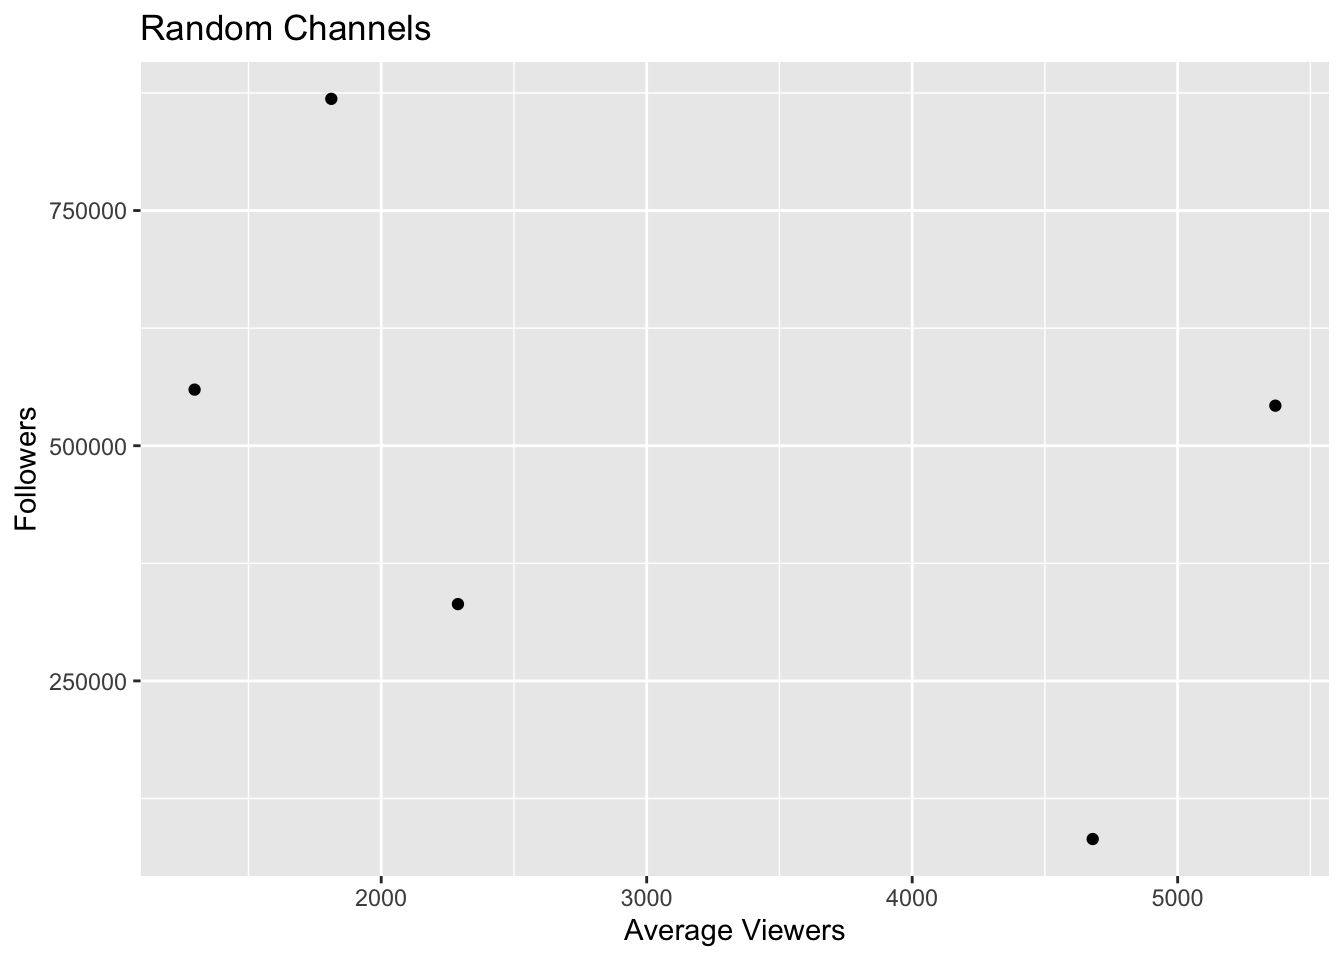
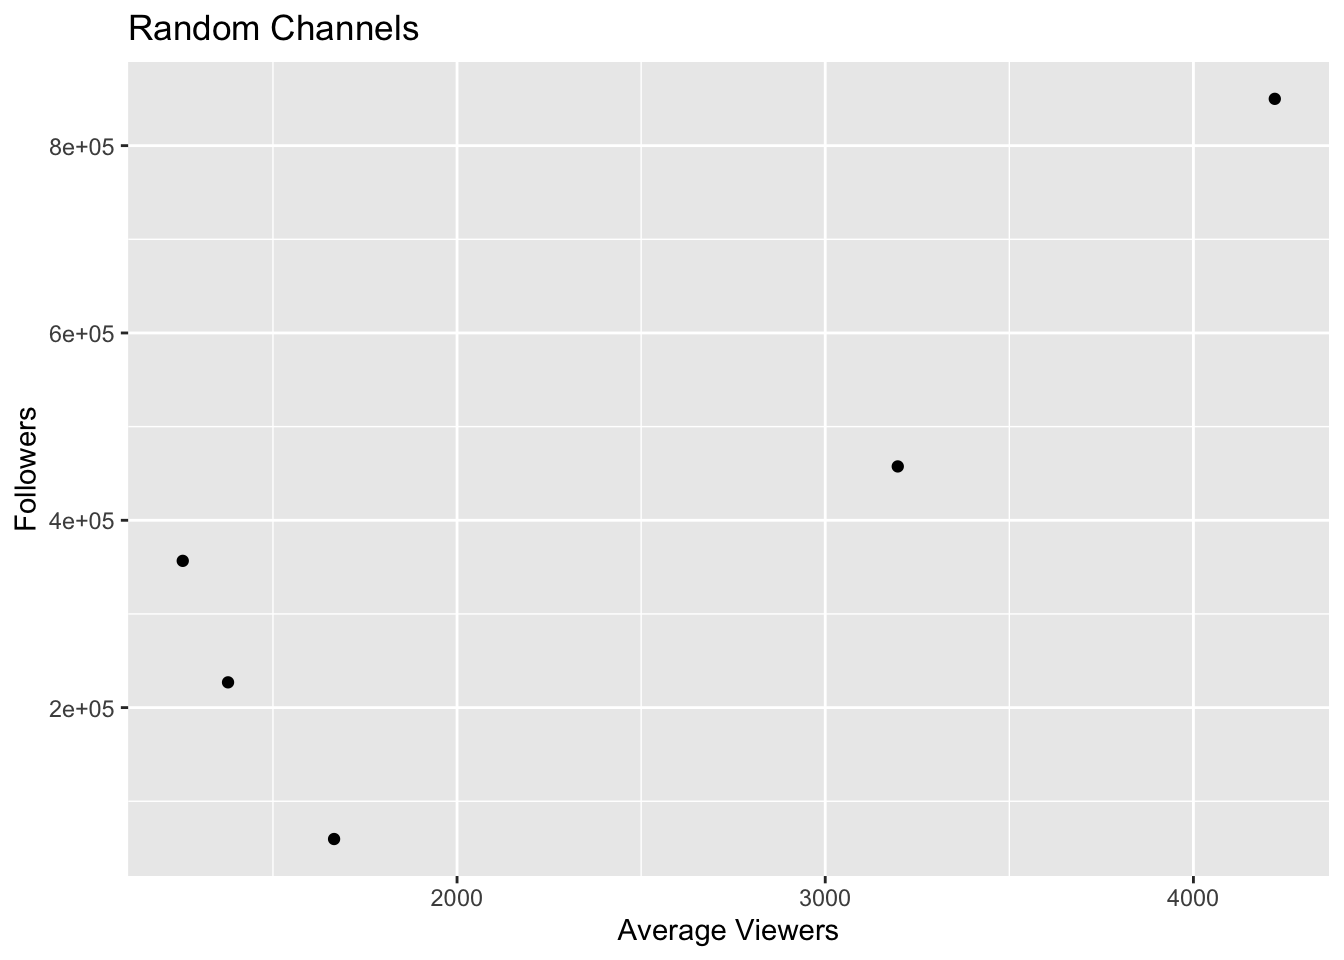
3

diff --git a/MD_HW5.html b/MD_HW5.html
@@ -158,13 +158,13 @@ Attaching package: 'janitor'</code></pre>
 <span id="cb10-3"><a href="#cb10-3" aria-hidden="true" tabindex="-1"></a>  <span class="fu">sample_n</span>(<span class="at">size =</span> <span class="dv">5</span>) </span></code><button title="Copy to Clipboard" class="code-copy-button"><i class="bi"></i></button></pre></div>
 <div class="cell-output cell-output-stdout">
 <pre><code># A tibble: 5 × 3
-  channel          average_viewers followers
-  &lt;chr&gt;                      &lt;dbl&gt;     &lt;dbl&gt;
-1 PaymoneyWubby               5485    302419
-2 TobiasFate                  1233    701822
-3 Philza                      2991    527540
-4 루시아 (lucia94)            1603     82578
-5 ESL_CSGOb                   5114    575769</code></pre>
+  channel            average_viewers followers
+  &lt;chr&gt;                        &lt;dbl&gt;     &lt;dbl&gt;
+1 태준이 (dlxowns45)            2023    346631
+2 AladdinTV                     1416    110211
+3 dinablin                      2413    293748
+4 koil                          2791    299033
+5 Bonjwa                        1802    123954</code></pre>
 </div>
 </div>
 <p>What do you notice?</p>
@@ -184,11 +184,11 @@ dplyr 1.1.0.
 <pre><code># A tibble: 5 × 2
   average_viewers followers
             &lt;dbl&gt;     &lt;dbl&gt;
-1            1233    701822
-2            1985    330772
-3            1569    256448
-4            2647    179420
-5            9235    833047</code></pre>
+1            5195    303671
+2            1400     86561
+3            1169     51589
+4            2391    512592
+5            7522    828896</code></pre>
 </div>
 </div>
 <p>Describe the results in a few words. Does anything capture your attention?</p>
@@ -246,8 +246,10 @@ dplyr 1.1.0.
 <section id="question-2" class="level2">
 <h2 class="anchored" data-anchor-id="question-2">Question 2</h2>
 <div class="cell">
-<div class="sourceCode cell-code" id="cb20"><pre class="sourceCode r code-with-copy"><code class="sourceCode r"><span id="cb20-1"><a href="#cb20-1" aria-hidden="true" tabindex="-1"></a>fit1 <span class="ot">&lt;-</span> <span class="fu">lm</span>(log_viewers <span class="sc">~</span> average_viewers,  <span class="at">data =</span> twitch_data)</span></code><button title="Copy to Clipboard" class="code-copy-button"><i class="bi"></i></button></pre></div>
+<div class="sourceCode cell-code" id="cb20"><pre class="sourceCode r code-with-copy"><code class="sourceCode r"><span id="cb20-1"><a href="#cb20-1" aria-hidden="true" tabindex="-1"></a>fit1 <span class="ot">&lt;-</span> <span class="fu">lm</span>(log_viewers <span class="sc">~</span> log_followers,  <span class="at">data =</span> twitch_data) </span></code><button title="Copy to Clipboard" class="code-copy-button"><i class="bi"></i></button></pre></div>
 </div>
+<p>$$ 1.1^{0.4} = 4.442731 $$</p>
+<p>A 10% increase in followers is associated with a 4.2% increase in the average number of viewers.</p>
 </section>
 <section id="question-3" class="level2">
 <h2 class="anchored" data-anchor-id="question-3">Question 3</h2>
@@ -261,18 +263,33 @@ dplyr 1.1.0.
 <div class="cell-output cell-output-stdout">
 <pre><code>Rows: 1,000
 Columns: 8
-$ log_viewers     &lt;dbl&gt; 4.442731, 4.408410, 4.040444, 3.887280, 4.471321, 4.62…
-$ average_viewers &lt;dbl&gt; 27716, 25610, 10976, 7714, 29602, 42414, 24181, 18985,…
-$ .fitted         &lt;dbl&gt; 4.227815, 4.156428, 3.660378, 3.549806, 4.291745, 4.72…
-$ .resid          &lt;dbl&gt; 0.21491505, 0.25198134, 0.38006578, 0.33747361, 0.1795…
-$ .hat            &lt;dbl&gt; 0.008367809, 0.007076837, 0.001537551, 0.001120491, 0.…
-$ .sigma          &lt;dbl&gt; 0.2790529, 0.2790217, 0.2788766, 0.2789317, 0.2790781,…
-$ .cooksd         &lt;dbl&gt; 0.0025247363, 0.0029276318, 0.0014310517, 0.0008215493…
-$ .std.resid      &lt;dbl&gt; 0.7735572, 0.9063824, 1.3633075, 1.2102753, 0.6467694,…</code></pre>
+$ log_viewers   &lt;dbl&gt; 4.442731, 4.408410, 4.040444, 3.887280, 4.471321, 4.6275…
+$ log_followers &lt;dbl&gt; 6.511388, 6.725108, 6.247393, 6.596030, 6.951284, 6.1940…
+$ .fitted       &lt;dbl&gt; 4.029761, 4.155534, 3.874400, 4.079572, 4.288638, 3.8430…
+$ .resid        &lt;dbl&gt; 0.4129697, 0.2528757, 0.1660436, -0.1922928, 0.1826833, …
+$ .hat          &lt;dbl&gt; 0.006194481, 0.008694557, 0.003782169, 0.007126066, 0.01…
+$ .sigma        &lt;dbl&gt; 0.3085580, 0.3087321, 0.3087919, 0.3087764, 0.3087820, 0…
+$ .cooksd       &lt;dbl&gt; 0.0056128779, 0.0029688873, 0.0005513456, 0.0014026033, …
+$ .std.resid    &lt;dbl&gt; 1.3420109, 0.8227954, 0.5389316, -0.6251793, 0.5953620, …</code></pre>
 </div>
 </div>
-<p>$$ 1.1^{0.4} = 4.442731 $$</p>
-<p>A 10% increase in followers is associated with a 4.2% increase in the average number of viewers.</p>
+<div class="cell">
+<div class="sourceCode cell-code" id="cb23"><pre class="sourceCode r code-with-copy"><code class="sourceCode r"><span id="cb23-1"><a href="#cb23-1" aria-hidden="true" tabindex="-1"></a>pred_data <span class="sc">%&gt;%</span> </span>
+<span id="cb23-2"><a href="#cb23-2" aria-hidden="true" tabindex="-1"></a>  <span class="fu">ggplot</span>(<span class="fu">aes</span>(<span class="at">x =</span> log_followers, </span>
+<span id="cb23-3"><a href="#cb23-3" aria-hidden="true" tabindex="-1"></a>             <span class="at">y =</span> log_viewers)) <span class="sc">+</span></span>
+<span id="cb23-4"><a href="#cb23-4" aria-hidden="true" tabindex="-1"></a>  <span class="fu">geom_jitter</span>(<span class="at">alpha =</span> <span class="fl">0.4</span>) <span class="sc">+</span> </span>
+<span id="cb23-5"><a href="#cb23-5" aria-hidden="true" tabindex="-1"></a>  <span class="fu">geom_line</span>(<span class="fu">aes</span>(<span class="at">x =</span> log_followers, </span>
+<span id="cb23-6"><a href="#cb23-6" aria-hidden="true" tabindex="-1"></a>                <span class="at">y =</span> .fitted), </span>
+<span id="cb23-7"><a href="#cb23-7" aria-hidden="true" tabindex="-1"></a>            <span class="at">col =</span> <span class="st">"orange"</span>) <span class="sc">+</span> </span>
+<span id="cb23-8"><a href="#cb23-8" aria-hidden="true" tabindex="-1"></a>  <span class="fu">theme_minimal</span>() <span class="sc">+</span></span>
+<span id="cb23-9"><a href="#cb23-9" aria-hidden="true" tabindex="-1"></a>  <span class="fu">labs</span>(<span class="at">subtitle =</span> <span class="st">"Fitted Model and Raw Data"</span>, </span>
+<span id="cb23-10"><a href="#cb23-10" aria-hidden="true" tabindex="-1"></a>       <span class="at">title =</span> <span class="st">"Followers &amp; Average Viewership"</span>, </span>
+<span id="cb23-11"><a href="#cb23-11" aria-hidden="true" tabindex="-1"></a>       <span class="at">x =</span> <span class="st">"log(followers)"</span>, </span>
+<span id="cb23-12"><a href="#cb23-12" aria-hidden="true" tabindex="-1"></a>       <span class="at">y =</span> <span class="st">"log(viewers)"</span>)</span></code><button title="Copy to Clipboard" class="code-copy-button"><i class="bi"></i></button></pre></div>
+<div class="cell-output-display">
+<p><img src="MD_HW5_files/figure-html/unnamed-chunk-10-1.png" class="img-fluid" width="672"></p>
+</div>
+</div>
 </section>
 <section id="question-4" class="level2">
 <h2 class="anchored" data-anchor-id="question-4">Question 4</h2>
@@ -282,6 +299,7 @@ $ .std.resid      &lt;dbl&gt; 0.7735572, 0.9063824, 1.3633075, 1.2102753, 0.6467
 </section>
 <section id="question-6" class="level2">
 <h2 class="anchored" data-anchor-id="question-6">Question 6</h2>
+<p>Explore the residuals here using a similar plot as above. There are a couple of points our model really missed - which ones were they?</p>
 </section>
 
 </main>
